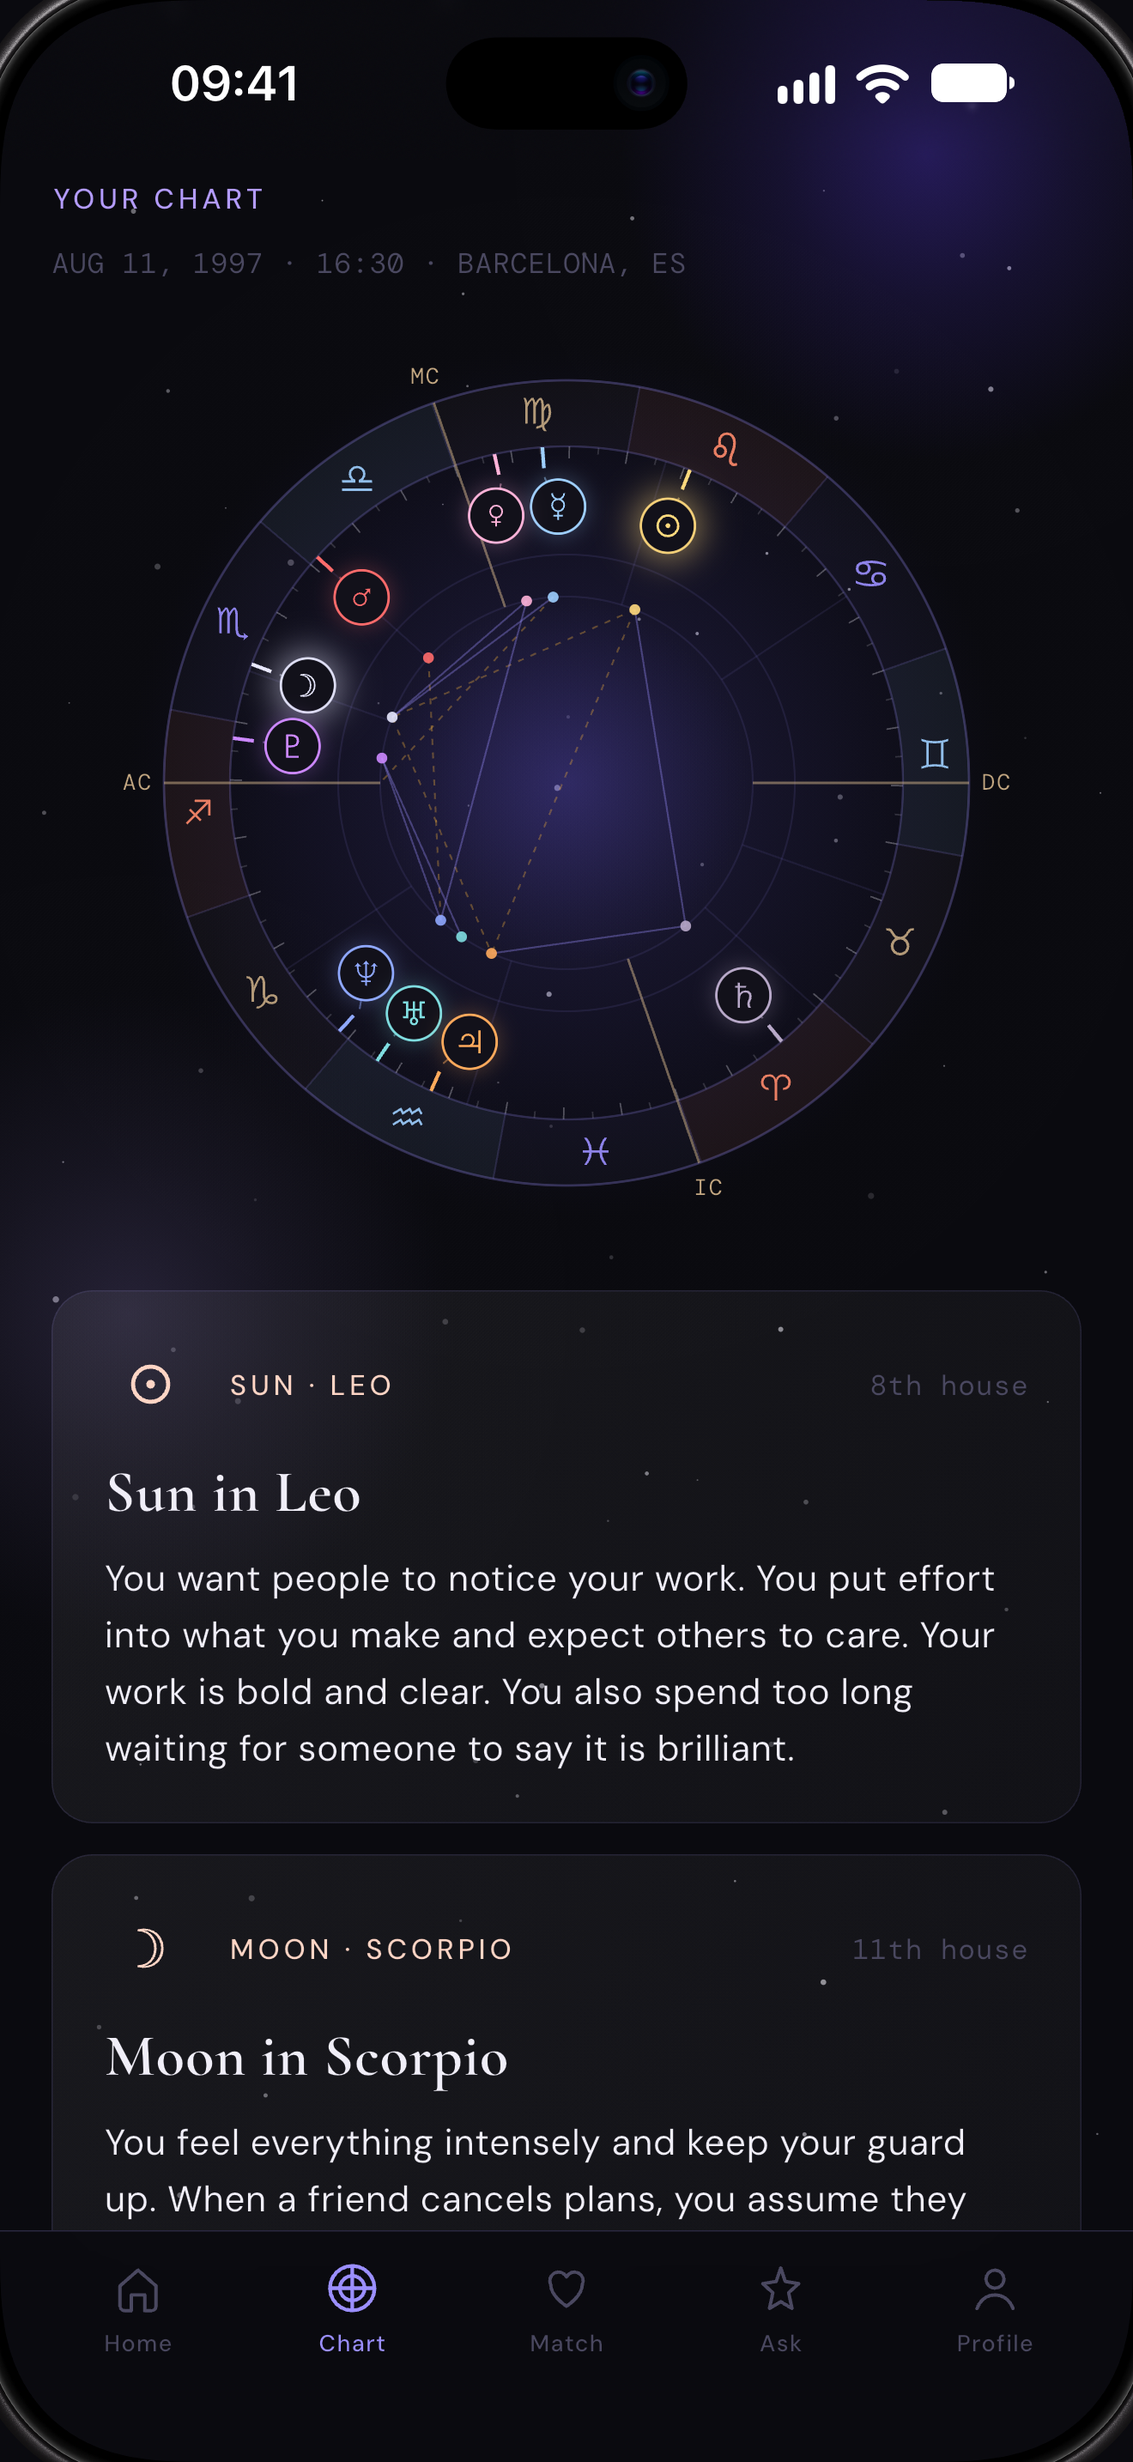
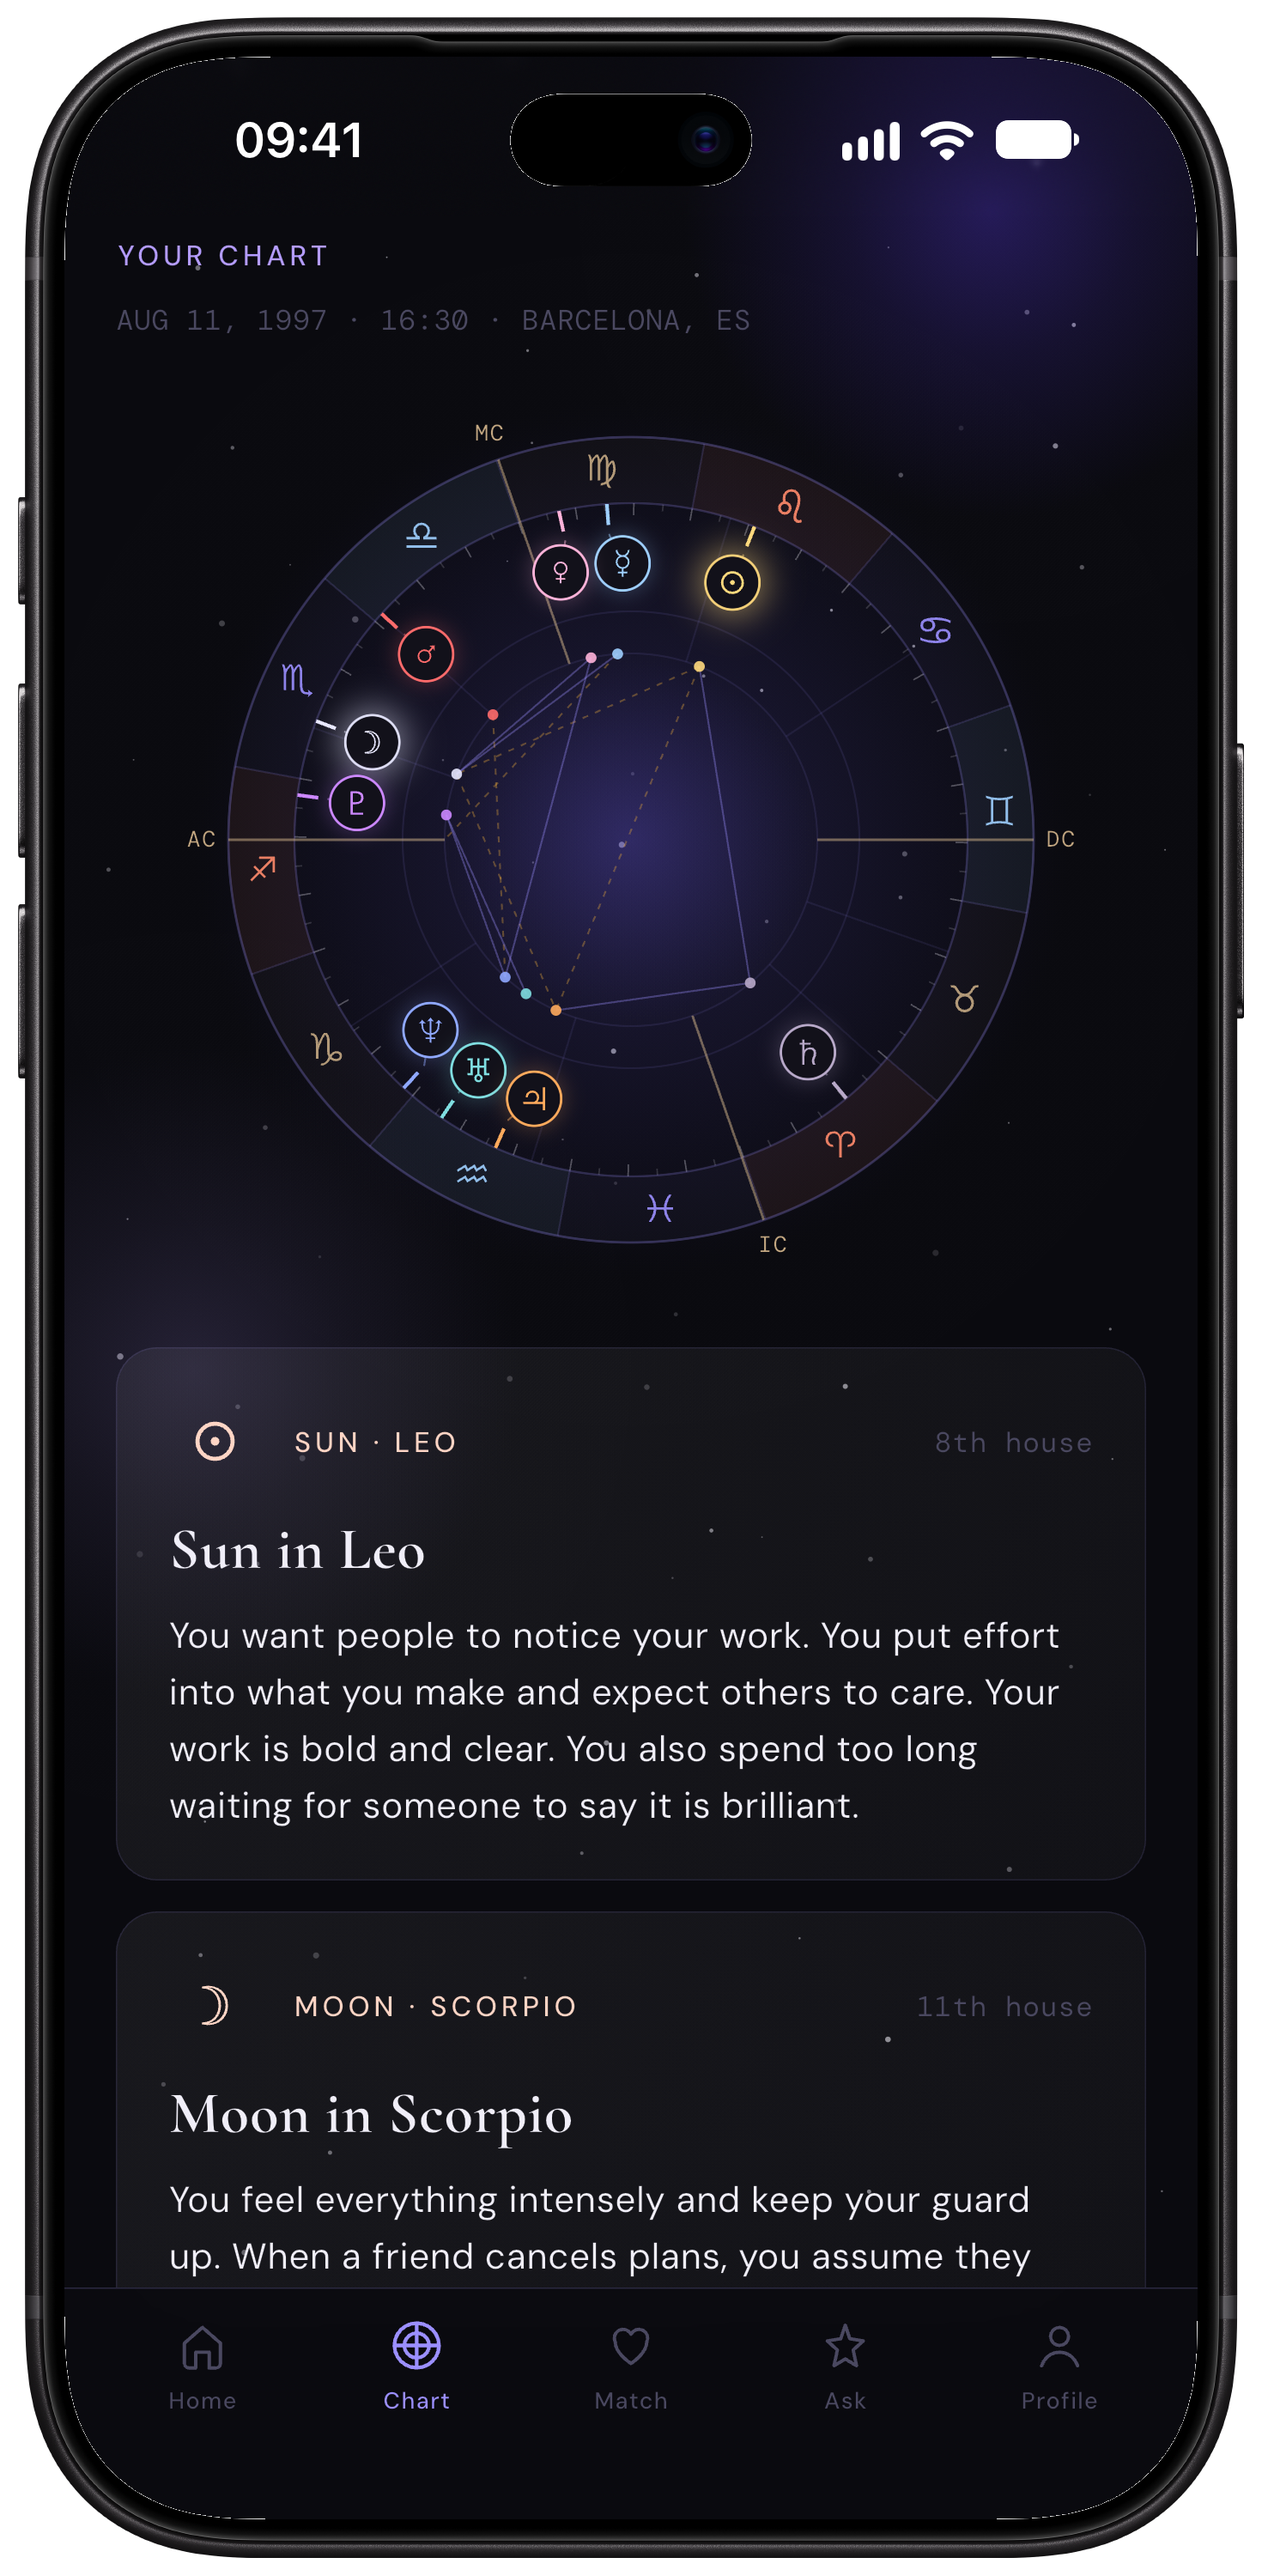
Use the owner's real iPhone frame instead of the CSS phone frame
Screenshots are now the framed exports as-is; the hero answer sits under an
empty frame cut from the same exports. OG image redrawn.

Claude-Session: https://claude.ai/code/session_01Db4r3boD4jLkqRsEkMRjZv

diff --git a/src/styles/site.css b/src/styles/site.css
@@ -405,40 +405,17 @@ a.store:hover {
   width: auto;
 }
 
-/* ---------- Phones (frame drawn in CSS around a raw screenshot) ---------- */
+/* ---------- Phones (screenshots exported inside a real iPhone frame) ---------- */
 
 .phone {
   margin: 0;
-  padding: 3.4%;
-  border-radius: 15% / 7.1%;
-  background: #0c0c12;
-  box-shadow:
-    0 0 0 1px rgba(255, 255, 255, 0.04),
-    0 0 0 3px rgba(155, 143, 255, 0.08),
-    0 40px 80px -20px rgba(0, 0, 0, 0.8),
-    0 0 120px -20px rgba(94, 62, 243, 0.3);
+  filter: drop-shadow(0 30px 40px rgba(0, 0, 0, 0.55)) drop-shadow(0 0 60px rgba(94, 62, 243, 0.22));
 }
-.phone__screen {
-  position: relative;
-  overflow: hidden;
-  border-radius: 12% / 5.6%;
-  background: var(--bg);
-}
-.phone__screen img {
+.phone img {
+  display: block;
   width: 100%;
   height: auto;
-  aspect-ratio: 1320 / 2868;
-}
-/* Dynamic Island, so raw screenshots without one look the same as framed exports */
-.phone__screen::after {
-  content: '';
-  position: absolute;
-  left: 39.3%;
-  top: 1.5%;
-  width: 21.4%;
-  height: 3.8%;
-  border-radius: 999px;
-  background: #000;
+  aspect-ratio: 1470 / 3000;
 }
 
 /* ---------- Hero: the promise on the left, a live answer on the right ---------- */
@@ -535,43 +512,38 @@ a.store:hover {
 .answer {
   position: relative;
   width: 100%;
-  max-width: 330px;
+  max-width: 300px;
   margin: 0 auto;
-  padding: 10px;
-  border-radius: 46px;
-  background: #0c0c12;
-  box-shadow:
-    0 0 0 1px rgba(255, 255, 255, 0.05),
-    0 0 0 3px rgba(155, 143, 255, 0.08),
-    0 40px 80px -20px rgba(0, 0, 0, 0.8),
-    0 0 140px -10px rgba(94, 62, 243, 0.45);
+  aspect-ratio: 1470 / 3000;
+  filter: drop-shadow(0 30px 40px rgba(0, 0, 0, 0.55)) drop-shadow(0 0 70px rgba(94, 62, 243, 0.35));
 }
+/* The live screen sits in the frame's screen hole: 75,66 → 1320×2868 of 1470×3000 */
 .answer__screen {
   --tone: var(--good);
-  position: relative;
+  position: absolute;
+  left: 5.1%;
+  top: 2.2%;
+  width: 89.8%;
+  height: 95.6%;
   display: flex;
   flex-direction: column;
   align-items: center;
+  justify-content: center;
   gap: 18px;
-  min-height: 470px;
-  padding: 64px 22px 26px;
-  border-radius: 37px;
+  padding: 16% 20px 20px;
+  border-radius: 13% / 6%;
   overflow: hidden;
   text-align: center;
   background:
     radial-gradient(120% 60% at 80% 0%, rgba(94, 62, 243, 0.28), transparent 70%),
     var(--bg);
 }
-.answer__screen::before {
-  content: '';
+.answer__frame {
   position: absolute;
-  top: 12px;
-  left: 50%;
-  width: 34%;
-  height: 26px;
-  transform: translateX(-50%);
-  border-radius: 999px;
-  background: #000;
+  inset: 0;
+  width: 100%;
+  height: 100%;
+  pointer-events: none;
 }
 .tone-yes { --tone: #4caf7d; --tone-bg: rgba(76, 175, 125, 0.11); --tone-line: rgba(76, 175, 125, 0.4); --tone-glow: rgba(76, 175, 125, 0.22); }
 .tone-no { --tone: #e05555; --tone-bg: rgba(224, 85, 85, 0.11); --tone-line: rgba(224, 85, 85, 0.4); --tone-glow: rgba(224, 85, 85, 0.22); }
@@ -1342,11 +1314,10 @@ html.is-android .stores.is-live .stores__item--ios {
     width: 100%;
   }
   .answer {
-    max-width: 280px;
+    max-width: 260px;
   }
   .answer__screen {
-    min-height: 0;
-    padding: 54px 16px 20px;
+    padding: 16% 14px 16px;
     gap: 12px;
   }
   .answer__q {

diff --git a/README.md b/README.md
@@ -40,7 +40,7 @@ npm run preview
 | `npm run og` | Перерисовывает картинку для соцсетей 1200×630. Нужен Playwright |
 | `npm run shots` | Снимает все страницы в ширинах 1440 и 390 в `reports/30-site/`. Нужен Playwright |
 | `npm run qa` | Проверяет вёрстку всех страниц на ширинах 360–1440 (горизонтальная прокрутка, вылезающие элементы, мелкие кнопки, незагруженные картинки) и снимает их в `reports/qa/`. Для Safari-движка: `npm run qa -- --browsers=webkit,chromium`. Нужен Playwright |
-| `npm run crop-framed -- <файл> <слот>` | Вырезает экран из скриншота в рамке телефона |
+| `npm run crop-framed -- <файл> <слот>` | Вырезает голый экран из скриншота в рамке (сайту не нужно) |
 
 Для `og` и `shots` нужен Playwright: `npm i -D playwright && npx playwright install chromium`. Для обычной сборки он не нужен.
 
@@ -78,8 +78,9 @@ npm run preview
 
 Пример ответа в первом экране — не картинка, а вёрстка: вопрос, вердикт, уверенность и чтение. Четыре примера и их тексты лежат в `content/en/site.json` → `landing.hero.examples`; чипы под телефоном переключают их.
 
-- **Сырой снимок экрана** без рамки (например, из `raw2/`): скопируйте его поверх файла с тем же именем, например `src/assets/screenshots/home.png`. Подходят `.png`, `.jpg` и `.webp`. Рамку телефона и «островок» сайт дорисует сам.
-- **Снимок уже в рамке** (как экспорт 976×2000 из кейс-стади): сначала вырежьте экран командой `npm run crop-framed -- путь/к/файлу.webp home`.
+- Сайт показывает снимки **как есть, в вашей рамке iPhone** — своей рамки не рисует. Кладите экспорт в рамке (1470×3000, прозрачный фон вокруг) поверх файла с тем же именем, например `src/assets/screenshots/home.png`. Подходят `.png` и `.webp` (у `.jpg` нет прозрачности).
+- Телефон с примером ответа в первом экране собран из пустой рамки `src/assets/frames/iphone.png` (та же рамка с прозрачным экраном), под которой лежит вёрстка ответа.
+- `npm run crop-framed` (вырезать экран из рамки) теперь нужен только для сторов и других мест, где нужен голый экран.
 
 После замены выполните `npm run build`. При желании перерисуйте картинку для соцсетей: `npm run og`.
 

diff --git a/reports/30-site.md b/reports/30-site.md
@@ -379,3 +379,11 @@ SEO 92 — из-за строки `Content-Signal` в `robots.txt` (решени
 - `npm run crop-framed` теперь сам находит экран внутри любой рамки (прошёл от краёв до внутреннего чёрного ободка), а не только в рамке 976×2000. Экран новых кадров — 1320×2868.
 - CSS-рамка и нарисованный островок подогнаны под новые кадры: пропорции 1320/2868, островок 39,3% / 1,5% / 21,4% × 3,8%.
 - Остальные 14 кадров (вопрос, портрет, прогноз, неделя, транзиты, грани совместимости) пока не используются; их можно взять для сторов и будущего видео.
+
+### v4.2 — настоящая рамка iPhone вместо CSS-рамки (2026-11-11)
+Владельцу не понравилась нарисованная рамка вокруг снимков. Теперь:
+- В рядах снимки стоят как есть, в рамке iPhone из экспорта владельца (1470×3000, прозрачный фон). CSS-рамка, тень-подложка и нарисованный островок удалены; осталась только мягкая тень по контуру телефона (`drop-shadow`).
+- Телефон с живым примером в первом экране: из 18 кадров собрана пустая рамка (`src/assets/frames/iphone.png` — пиксели, одинаковые во всех кадрах: корпус, чёрный ободок в углах, островок), экран сделан прозрачным, под ним — вёрстка ответа. Ширина 300 px (260 px на телефоне).
+- Запасная картинка для старых браузеров — WebP вместо JPEG, чтобы не терять прозрачные углы.
+- Картинка для соцсетей перерисована на тех же кадрах без CSS-рамки.
+- Проверки: `npm run check` — тексты документов совпадают; QA в WebKit и Chromium — без замечаний; Lighthouse главной 99 / 100 / 100 / 92.
